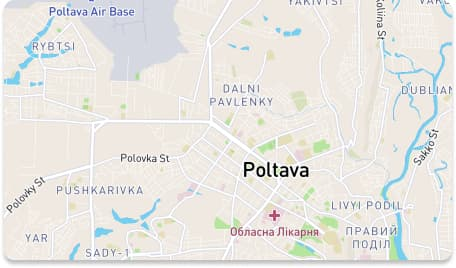
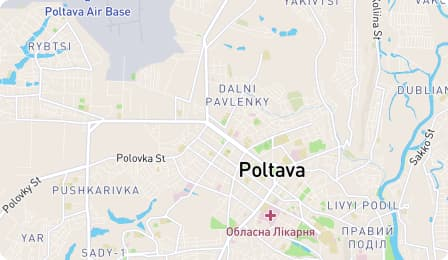
Fixed styles in location

diff --git a/src/partials/location.html b/src/partials/location.html
@@ -1,15 +1,15 @@
 <div class="backdrop backdrop--is-hidden js-location">
-  <div class="modal locations">
+  <div class="modal location">
     <button class="modal__close-button js-location-close">
       <svg class="" width="20" height="20">
         <use href="./images/icons.svg#icon-close"></use>
       </svg>
     </button>
-    <p class="modal__title">Our Locations</p>
-    <div class="modal__map">
+    <h2 class="modal__title location__title">Our Locations</h2>
+    <div class="location__map">
       <picture>
         <source
-          media="(max-width: 480px)"
+          media="(max-width: 767.98px)"
           srcset="
             ./images/modal-location/map-s@1x.jpg 1x,
             ./images/modal-location/map-s@2x.jpg 2x
@@ -17,7 +17,7 @@
           type="image/jpg"
         />
         <source
-          media="(max-width: 480px)"
+          media="(max-width: 767.98px)"
           srcset="
             ./images/modal-location/map-s@1x.webp 1x,
             ./images/modal-location/map-s@2x.webp 2x
@@ -25,7 +25,7 @@
           type="image/webp"
         />
         <source
-          media="(min-width: 480.1px)"
+          media="(min-width: 768px)"
           srcset="
             ./images/modal-location/map-L@1x.jpg 1x,
             ./images/modal-location/map-L@2x.jpg 2x
@@ -33,7 +33,7 @@
           type="image/jpg"
         />
         <source
-          media="(min-width: 480.1px)"
+          media="(min-width: 768px)"
           srcset="
             ./images/modal-location/map-L@1x.webp 1x,
             ./images/modal-location/map-L@2x.webp 2x
@@ -48,11 +48,10 @@
       </picture>
     </div>
 
-    <a
-      class="modal__button modal__button--locations"
-      href="https://goo.gl/maps/Y92jL7G9hhWHcfbN6"
-      target="_blank"
-      ><span class="modal__button-text">Open map</span></a
-    >
+    <form action="https://goo.gl/maps/Y92jL7G9hhWHcfbN6" target="_blank">
+      <button type="submit" class="modal__button modal__button--locations">
+        <span class="modal__button-text">Open map</span>
+      </button>
+    </form>
   </div>
 </div>

diff --git a/src/sass/components/_modal.scss b/src/sass/components/_modal.scss
@@ -12,10 +12,6 @@
   border: 2px solid var(--brand-color);
   border-radius: 10px;
 
-  @media screen and (min-width: 480px) {
-    padding: 32px 60px;
-  }
-
   @media (min-width: 768px) {
     width: 568px;
     padding: 32px 40px;
@@ -95,6 +91,11 @@
   font-size: 16px;
   line-height: 1.5;
   text-align: center;
+
+  @media screen and (min-width: 768px) {
+    font-size: 20px;
+    line-height: 1.4;
+  }
 }
 
 .modal__text {
@@ -187,17 +188,5 @@
   @media screen and (min-width: 768px) {
     font-size: 14px;
     line-height: 1.21;
-  }
-}
-
-.modal__map {
-  max-width: 224px;
-  max-height: 199px;
-  margin-left: auto;
-  margin-right: auto;
-
-  @media screen and (min-width: 480.1px) {
-    max-width: 448px;
-    max-height: 260px;
   }
 }

diff --git a/src/sass/components/_location.scss b/src/sass/components/_location.scss
@@ -1,0 +1,28 @@
+.location {
+  @media screen and (min-width: 768px) {
+    padding-left: 60px;
+    padding-right: 60px;
+  }
+}
+
+.location__title {
+  @media screen and (min-width: 768px) {
+    margin-bottom: 32px;
+  }
+}
+
+.location__map {
+  overflow: hidden;
+  width: 224px;
+  height: 199px;
+  margin-left: auto;
+  margin-right: auto;
+  margin-bottom: 32px;
+
+  border-radius: 10px;
+
+  @media screen and (min-width: 768px) {
+    width: 448px;
+    height: 260px;
+  }
+}

diff --git a/src/sass/components/_module.scss b/src/sass/components/_module.scss
@@ -9,3 +9,4 @@
 @import './slideset';
 @import './contact-card';
 @import './ingredients';
+@import './location';
